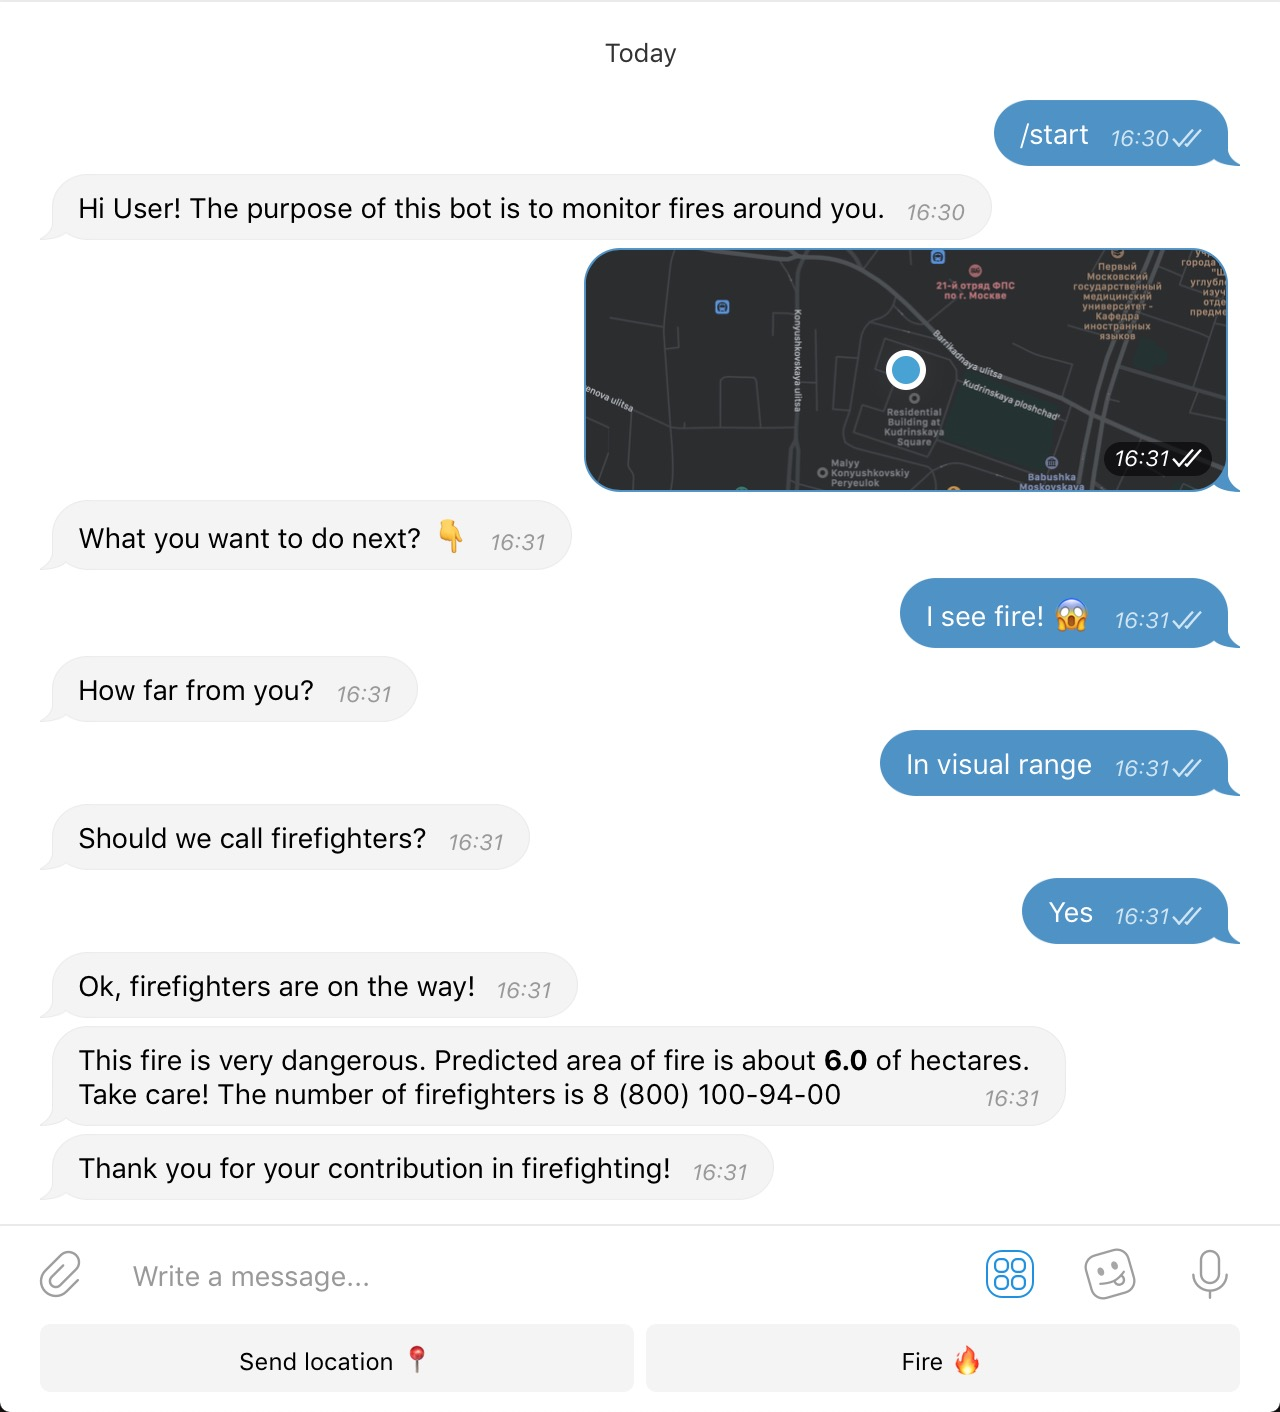
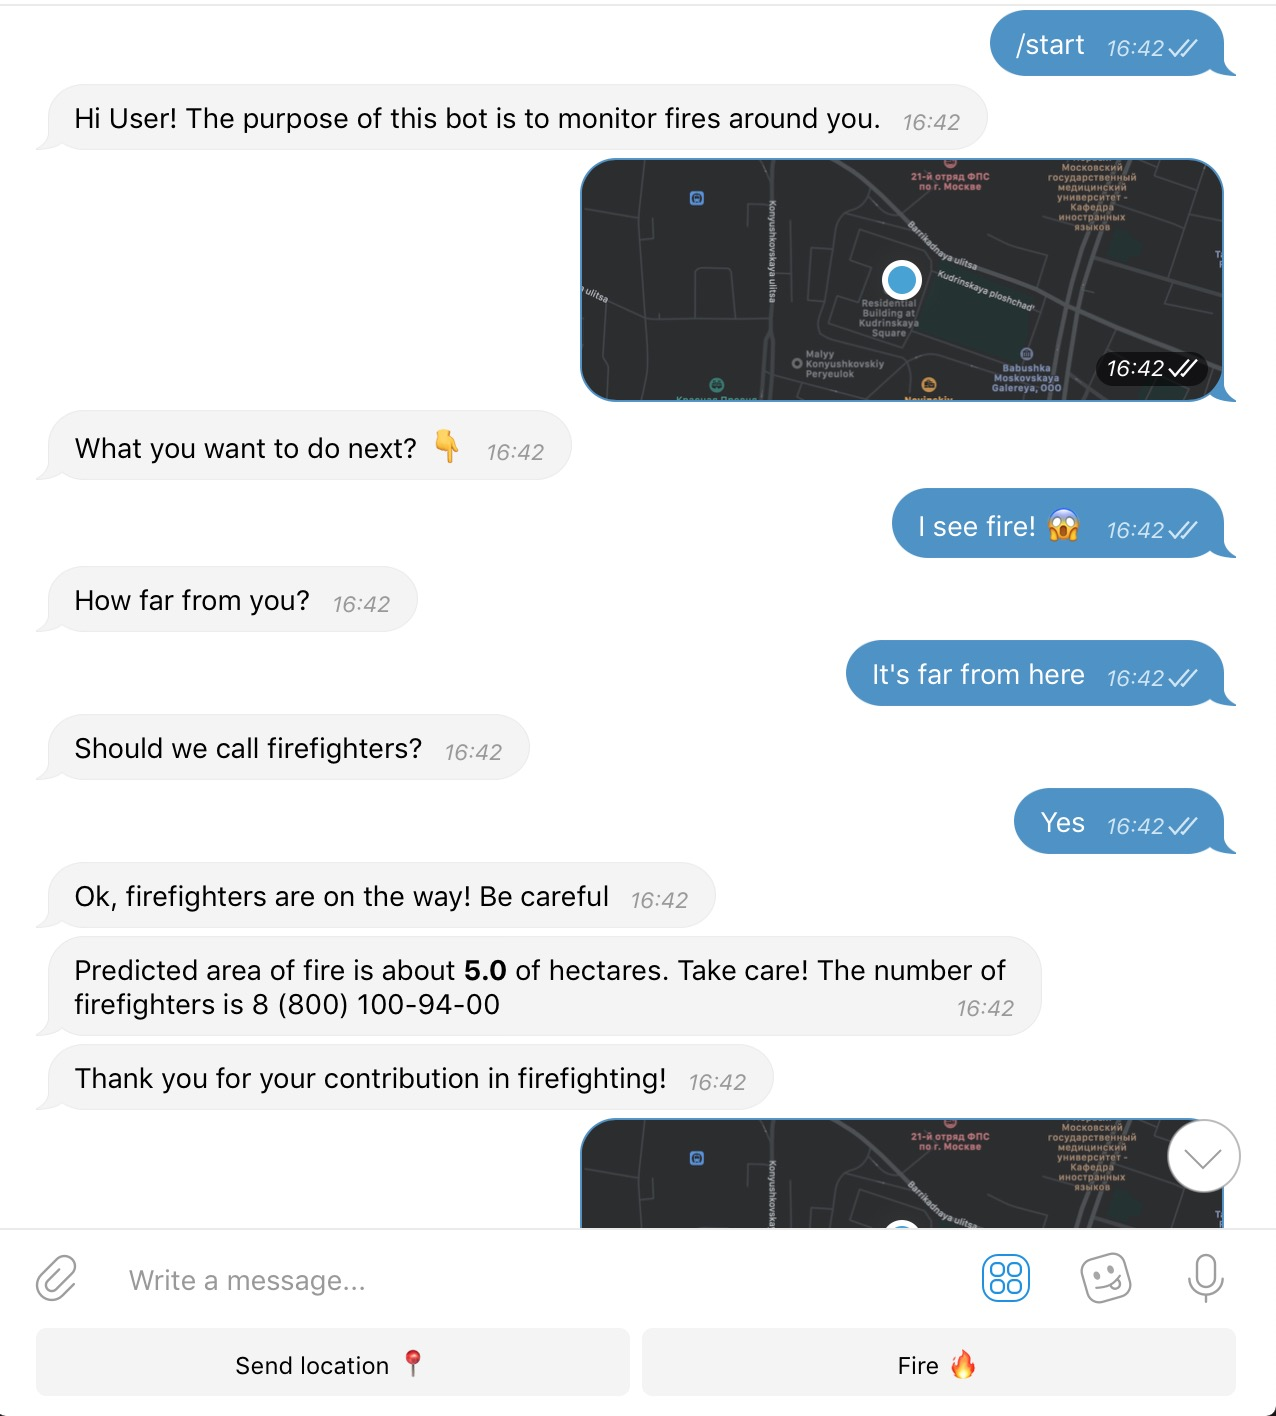
Up

diff --git a/bot_keyboard.py b/bot_keyboard.py
@@ -172,6 +172,9 @@ def text_handler(bot, update):
                 bot.send_message(chat_id=chat_id, parse_mode=telegram.ParseMode.MARKDOWN, text="This fire is very dangerous. Predicted area of fire is about *{}* of hectares. Take care! The number of firefighters is {}".format(data['firearea'], PHONENUMBER))
             else:
                 bot.send_message(chat_id=chat_id, text="Ok, firefighters are on the way! Be careful", reply_markup=None)
+                bot.send_message(chat_id=chat_id, parse_mode=telegram.ParseMode.MARKDOWN,
+                                 text="Predicted area of fire is about *{}* of hectares. Take care! The number of firefighters is {}".format(
+                                     data['firearea'], PHONENUMBER))
 
             thankyou(bot, update)
         elif text == 'No':
@@ -179,6 +182,9 @@ def text_handler(bot, update):
                 bot.send_message(chat_id=chat_id, parse_mode=telegram.ParseMode.MARKDOWN, text="This fire is very dangerous. Predicted area of fire is about *{}* of hectares. Take care! The number of firefighters is {}".format(data['firearea'], PHONENUMBER))
             else:
                 bot.send_message(chat_id=chat_id, text="Ok, be careful!", reply_markup=None)
+                bot.send_message(chat_id=chat_id, parse_mode=telegram.ParseMode.MARKDOWN,
+                                 text="Predicted area of fire is about *{}* of hectares. Take care! The number of firefighters is {}".format(
+                                     data['firearea'], PHONENUMBER))
 
             thankyou(bot, update)
         elif text == NEAREST_FIRE:

diff --git a/README.md b/README.md
@@ -2,7 +2,7 @@
 
 Implemented during [Space Apps 2018 Challenge](https://2018.spaceappschallenge.org) using data from NASA including [Active Fire Data](https://earthdata.nasa.gov/earth-observation-data/near-real-time/firms/active-fire-data) by NASA.
 
-###Team "[Mommy's scientists](https://2018.spaceappschallenge.org/challenges/volcanoes-icebergs-and-asteroids-oh-my/real-time-fire-app/teams/mommys-scientists/project)"
+### Team "[Mommy's scientists](https://2018.spaceappschallenge.org/challenges/volcanoes-icebergs-and-asteroids-oh-my/real-time-fire-app/teams/mommys-scientists/project)"
 
 Alexander Boyko, Yana Minaylova, Anton Karazeev
 
